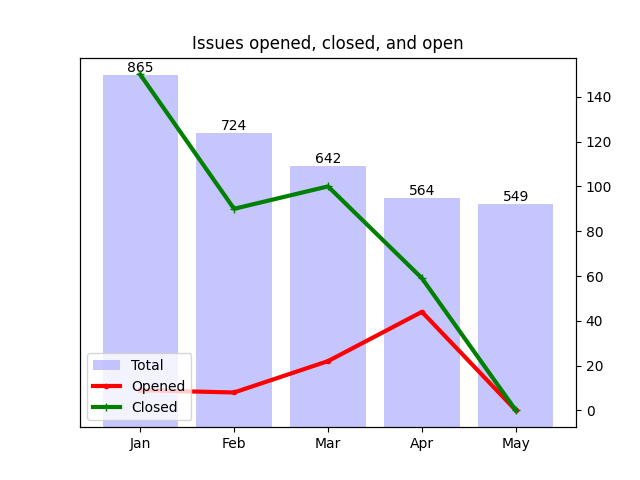
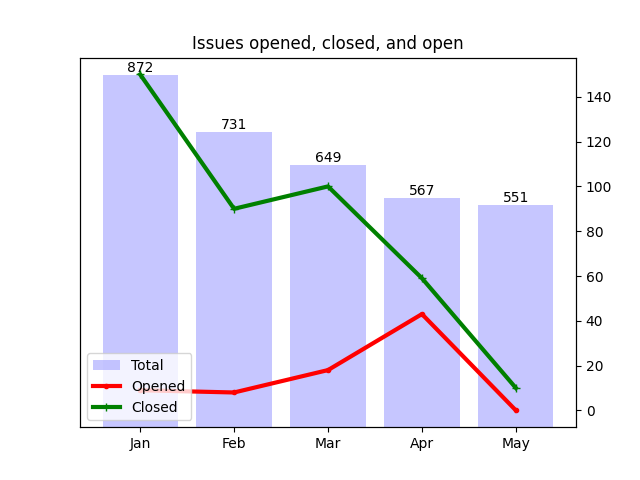
Apply automatic changes

diff --git a/docs/analytics.html b/docs/analytics.html
@@ -79,18 +79,18 @@ td .material-icons { display:inline-flex; vertical-align: top; font-size:1.1rem;
 						</tr>
 						<tr>
 							<td>Mar</td>
-							<td>22</td>
+							<td>18</td>
 							<td>100</td>
 						</tr>
 						<tr>
 							<td>Apr</td>
-							<td>44</td>
+							<td>43</td>
 							<td>59</td>
 						</tr>
 						<tr>
 							<td>May</td>
 							<td>0</td>
-							<td>0</td>
+							<td>10</td>
 						</tr>
 					</table>
 				</div>
@@ -110,7 +110,7 @@ td .material-icons { display:inline-flex; vertical-align: top; font-size:1.1rem;
 							<td>
 								<a href="http://github.com/notofonts/latin-greek-cyrillic/issues">latin-greek-cyrillic</a>
 							</td>
-							<td>156</td>
+							<td>155</td>
 						</tr>
 						<tr>
 							<td>
@@ -138,12 +138,6 @@ td .material-icons { display:inline-flex; vertical-align: top; font-size:1.1rem;
 						</tr>
 						<tr>
 							<td>
-								<a href="http://github.com/notofonts/math/issues">math</a>
-							</td>
-							<td>13</td>
-						</tr>
-						<tr>
-							<td>
 								<a href="http://github.com/notofonts/thai/issues">thai</a>
 							</td>
 							<td>12</td>
@@ -166,6 +160,12 @@ td .material-icons { display:inline-flex; vertical-align: top; font-size:1.1rem;
 							</td>
 							<td>9</td>
 						</tr>
+						<tr>
+							<td>
+								<a href="http://github.com/notofonts/khmer/issues">khmer</a>
+							</td>
+							<td>9</td>
+						</tr>
 					</table>
 				</div>
 				<div class="col">
@@ -181,7 +181,7 @@ td .material-icons { display:inline-flex; vertical-align: top; font-size:1.1rem;
 				<tr>
 					<td>1</td>
 					<td>
-						<a href="http://github.com/notofonts/bamum/issues">bamum</a>,  						<a href="http://github.com/notofonts/brahmi/issues">brahmi</a>,  						<a href="http://github.com/notofonts/canadian-aboriginal/issues">canadian-aboriginal</a>,  						<a href="http://github.com/notofonts/cham/issues">cham</a>,  						<a href="http://github.com/notofonts/deseret/issues">deseret</a>,  						<a href="http://github.com/notofonts/duployan/issues">duployan</a>,  						<a href="http://github.com/notofonts/hanunoo/issues">hanunoo</a>,  						<a href="http://github.com/notofonts/inscriptional-parthian/issues">inscriptional-parthian</a>,  						<a href="http://github.com/notofonts/kawi/issues">kawi</a>,  						<a href="http://github.com/notofonts/kharoshthi/issues">kharoshthi</a>,  						<a href="http://github.com/notofonts/khitan-small-script/issues">khitan-small-script</a>,  						<a href="http://github.com/notofonts/khojki/issues">khojki</a>,  						<a href="http://github.com/notofonts/khudawadi/issues">khudawadi</a>,  						<a href="http://github.com/notofonts/linear-a/issues">linear-a</a>,  						<a href="http://github.com/notofonts/meetei-mayek/issues">meetei-mayek</a>,  						<a href="http://github.com/notofonts/miao/issues">miao</a>,  						<a href="http://github.com/notofonts/nushu/issues">nushu</a>,  						<a href="http://github.com/notofonts/old-italic/issues">old-italic</a>,  						<a href="http://github.com/notofonts/pahawh-hmong/issues">pahawh-hmong</a>,  						<a href="http://github.com/notofonts/saurashtra/issues">saurashtra</a>,  						<a href="http://github.com/notofonts/sign-writing/issues">sign-writing</a>,  						<a href="http://github.com/notofonts/tai-le/issues">tai-le</a> 
+						<a href="http://github.com/notofonts/bamum/issues">bamum</a>,  						<a href="http://github.com/notofonts/brahmi/issues">brahmi</a>,  						<a href="http://github.com/notofonts/canadian-aboriginal/issues">canadian-aboriginal</a>,  						<a href="http://github.com/notofonts/cham/issues">cham</a>,  						<a href="http://github.com/notofonts/deseret/issues">deseret</a>,  						<a href="http://github.com/notofonts/duployan/issues">duployan</a>,  						<a href="http://github.com/notofonts/hanunoo/issues">hanunoo</a>,  						<a href="http://github.com/notofonts/inscriptional-parthian/issues">inscriptional-parthian</a>,  						<a href="http://github.com/notofonts/kawi/issues">kawi</a>,  						<a href="http://github.com/notofonts/kharoshthi/issues">kharoshthi</a>,  						<a href="http://github.com/notofonts/khitan-small-script/issues">khitan-small-script</a>,  						<a href="http://github.com/notofonts/khojki/issues">khojki</a>,  						<a href="http://github.com/notofonts/khudawadi/issues">khudawadi</a>,  						<a href="http://github.com/notofonts/linear-a/issues">linear-a</a>,  						<a href="http://github.com/notofonts/meetei-mayek/issues">meetei-mayek</a>,  						<a href="http://github.com/notofonts/miao/issues">miao</a>,  						<a href="http://github.com/notofonts/nko/issues">nko</a>,  						<a href="http://github.com/notofonts/nushu/issues">nushu</a>,  						<a href="http://github.com/notofonts/old-italic/issues">old-italic</a>,  						<a href="http://github.com/notofonts/pahawh-hmong/issues">pahawh-hmong</a>,  						<a href="http://github.com/notofonts/saurashtra/issues">saurashtra</a>,  						<a href="http://github.com/notofonts/sign-writing/issues">sign-writing</a>,  						<a href="http://github.com/notofonts/tai-le/issues">tai-le</a> 
 					</td>
 				</tr>
 				<tr>
@@ -199,7 +199,7 @@ td .material-icons { display:inline-flex; vertical-align: top; font-size:1.1rem;
 				<tr>
 					<td>4</td>
 					<td>
-						<a href="http://github.com/notofonts/armenian/issues">armenian</a>,  						<a href="http://github.com/notofonts/caucasian-albanian/issues">caucasian-albanian</a>,  						<a href="http://github.com/notofonts/dogra/issues">dogra</a>,  						<a href="http://github.com/notofonts/gurmukhi/issues">gurmukhi</a>,  						<a href="http://github.com/notofonts/manichaean/issues">manichaean</a>,  						<a href="http://github.com/notofonts/modi/issues">modi</a>,  						<a href="http://github.com/notofonts/nandinagari/issues">nandinagari</a>,  						<a href="http://github.com/notofonts/nko/issues">nko</a>,  						<a href="http://github.com/notofonts/old-hungarian-ui/issues">old-hungarian-ui</a>,  						<a href="http://github.com/notofonts/oriya/issues">oriya</a>,  						<a href="http://github.com/notofonts/tai-tham/issues">tai-tham</a>,  						<a href="http://github.com/notofonts/tibetan/issues">tibetan</a> 
+						<a href="http://github.com/notofonts/armenian/issues">armenian</a>,  						<a href="http://github.com/notofonts/caucasian-albanian/issues">caucasian-albanian</a>,  						<a href="http://github.com/notofonts/dogra/issues">dogra</a>,  						<a href="http://github.com/notofonts/gurmukhi/issues">gurmukhi</a>,  						<a href="http://github.com/notofonts/manichaean/issues">manichaean</a>,  						<a href="http://github.com/notofonts/modi/issues">modi</a>,  						<a href="http://github.com/notofonts/nandinagari/issues">nandinagari</a>,  						<a href="http://github.com/notofonts/old-hungarian-ui/issues">old-hungarian-ui</a>,  						<a href="http://github.com/notofonts/oriya/issues">oriya</a>,  						<a href="http://github.com/notofonts/tai-tham/issues">tai-tham</a>,  						<a href="http://github.com/notofonts/tibetan/issues">tibetan</a> 
 					</td>
 				</tr>
 				<tr>
@@ -229,7 +229,7 @@ td .material-icons { display:inline-flex; vertical-align: top; font-size:1.1rem;
 				<tr>
 					<td>9</td>
 					<td>
-						<a href="http://github.com/notofonts/balinese/issues">balinese</a>,  						<a href="http://github.com/notofonts/khmer/issues">khmer</a> 
+						<a href="http://github.com/notofonts/balinese/issues">balinese</a>,  						<a href="http://github.com/notofonts/khmer/issues">khmer</a>,  						<a href="http://github.com/notofonts/math/issues">math</a> 
 					</td>
 				</tr>
 				<tr>
@@ -250,7 +250,7 @@ td .material-icons { display:inline-flex; vertical-align: top; font-size:1.1rem;
 						<tr>
 							<td>1</td>
 							<td>
-									<a href="http://github.com/notofonts/latin-greek-cyrillic/issues">latin-greek-cyrillic</a>: 156, 
+									<a href="http://github.com/notofonts/latin-greek-cyrillic/issues">latin-greek-cyrillic</a>: 155, 
 
 									<a href="http://github.com/notofonts/arabic/issues">arabic</a>: 17, 
 
@@ -300,7 +300,7 @@ td .material-icons { display:inline-flex; vertical-align: top; font-size:1.1rem;
 						<tr>
 							<td>3</td>
 							<td>
-									<a href="http://github.com/notofonts/math/issues">math</a>: 13, 
+									<a href="http://github.com/notofonts/math/issues">math</a>: 9, 
 
 									<a href="http://github.com/notofonts/syloti-nagri/issues">syloti-nagri</a>: 7, 
 
@@ -315,8 +315,6 @@ td .material-icons { display:inline-flex; vertical-align: top; font-size:1.1rem;
 									<a href="http://github.com/notofonts/syriac/issues">syriac</a>: 5, 
 
 									<a href="http://github.com/notofonts/modi/issues">modi</a>: 4, 
-
-									<a href="http://github.com/notofonts/nko/issues">nko</a>: 4, 
 
 									<a href="http://github.com/notofonts/tai-tham/issues">tai-tham</a>: 4, 
 
@@ -363,6 +361,8 @@ td .material-icons { display:inline-flex; vertical-align: top; font-size:1.1rem;
 									<a href="http://github.com/notofonts/meetei-mayek/issues">meetei-mayek</a>: 1, 
 
 									<a href="http://github.com/notofonts/miao/issues">miao</a>: 1, 
+
+									<a href="http://github.com/notofonts/nko/issues">nko</a>: 1, 
 
 									<a href="http://github.com/notofonts/pahawh-hmong/issues">pahawh-hmong</a>: 1, 
 
